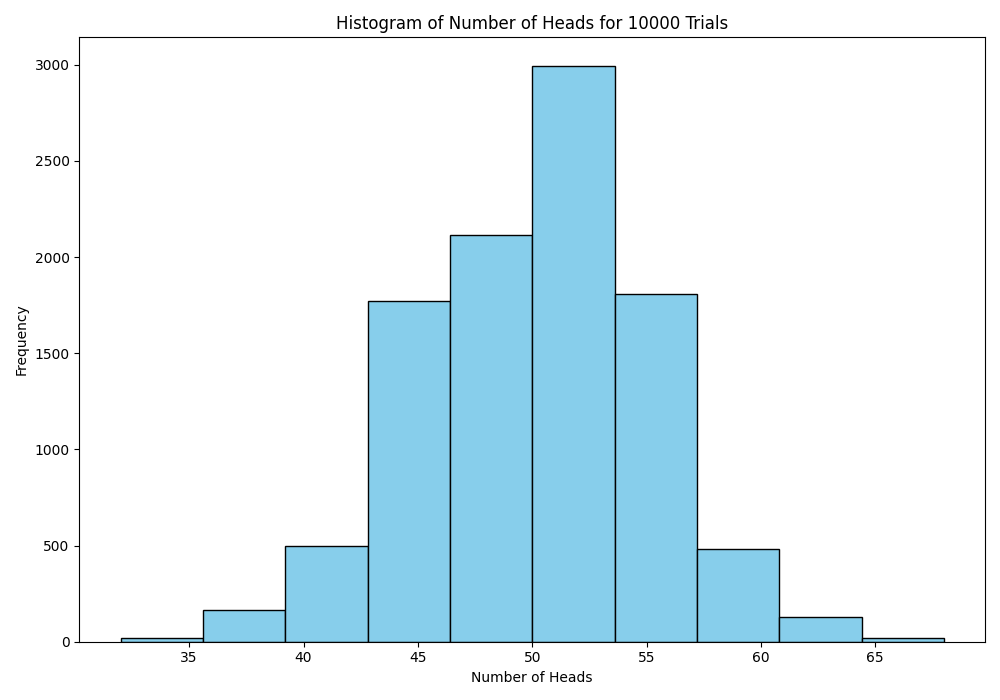
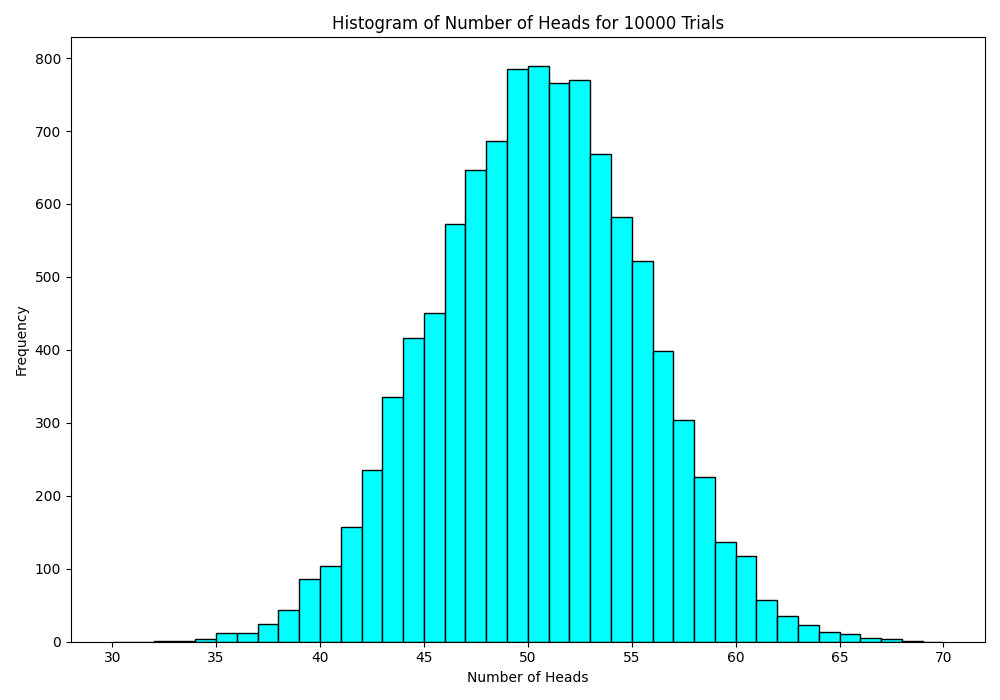
Added different bins for different Trials also added range of histogram

diff --git a/Ambuj/part1A.py b/Ambuj/part1A.py
@@ -22,7 +22,7 @@ def toss(num_trials):
 
     ## Write your code here
     for i in range(num_trials):
-        results.append(sum(random.choice([0, 1]) for j in range(num_coins)))  # 1 represents heads and 0 represents
+        results.append(sum(random.choice([0, 1]) for _ in range(num_coins)))  # 1 represents heads and 0 represents
         # tails. So by summing all the values obtained we can get no of heads.
     return results
 
@@ -39,7 +39,8 @@ def plot_hist(trial):
     fig, axs = plt.subplots(figsize=(10, 7), tight_layout=True)
 
     ## Write your code here
-    plt.hist(trial, color='skyblue', edgecolor='black')
+    plt.hist(trial, bins=40 if len(trial) > 1000 else 20 if len(trial) > 100 else 10, range=(30, 70), color='cyan',
+             edgecolor='black')
     axs.set_title(f'Histogram of Number of Heads for {num_trials} Trials')
     axs.set_xlabel('Number of Heads')
     axs.set_ylabel('Frequency')
